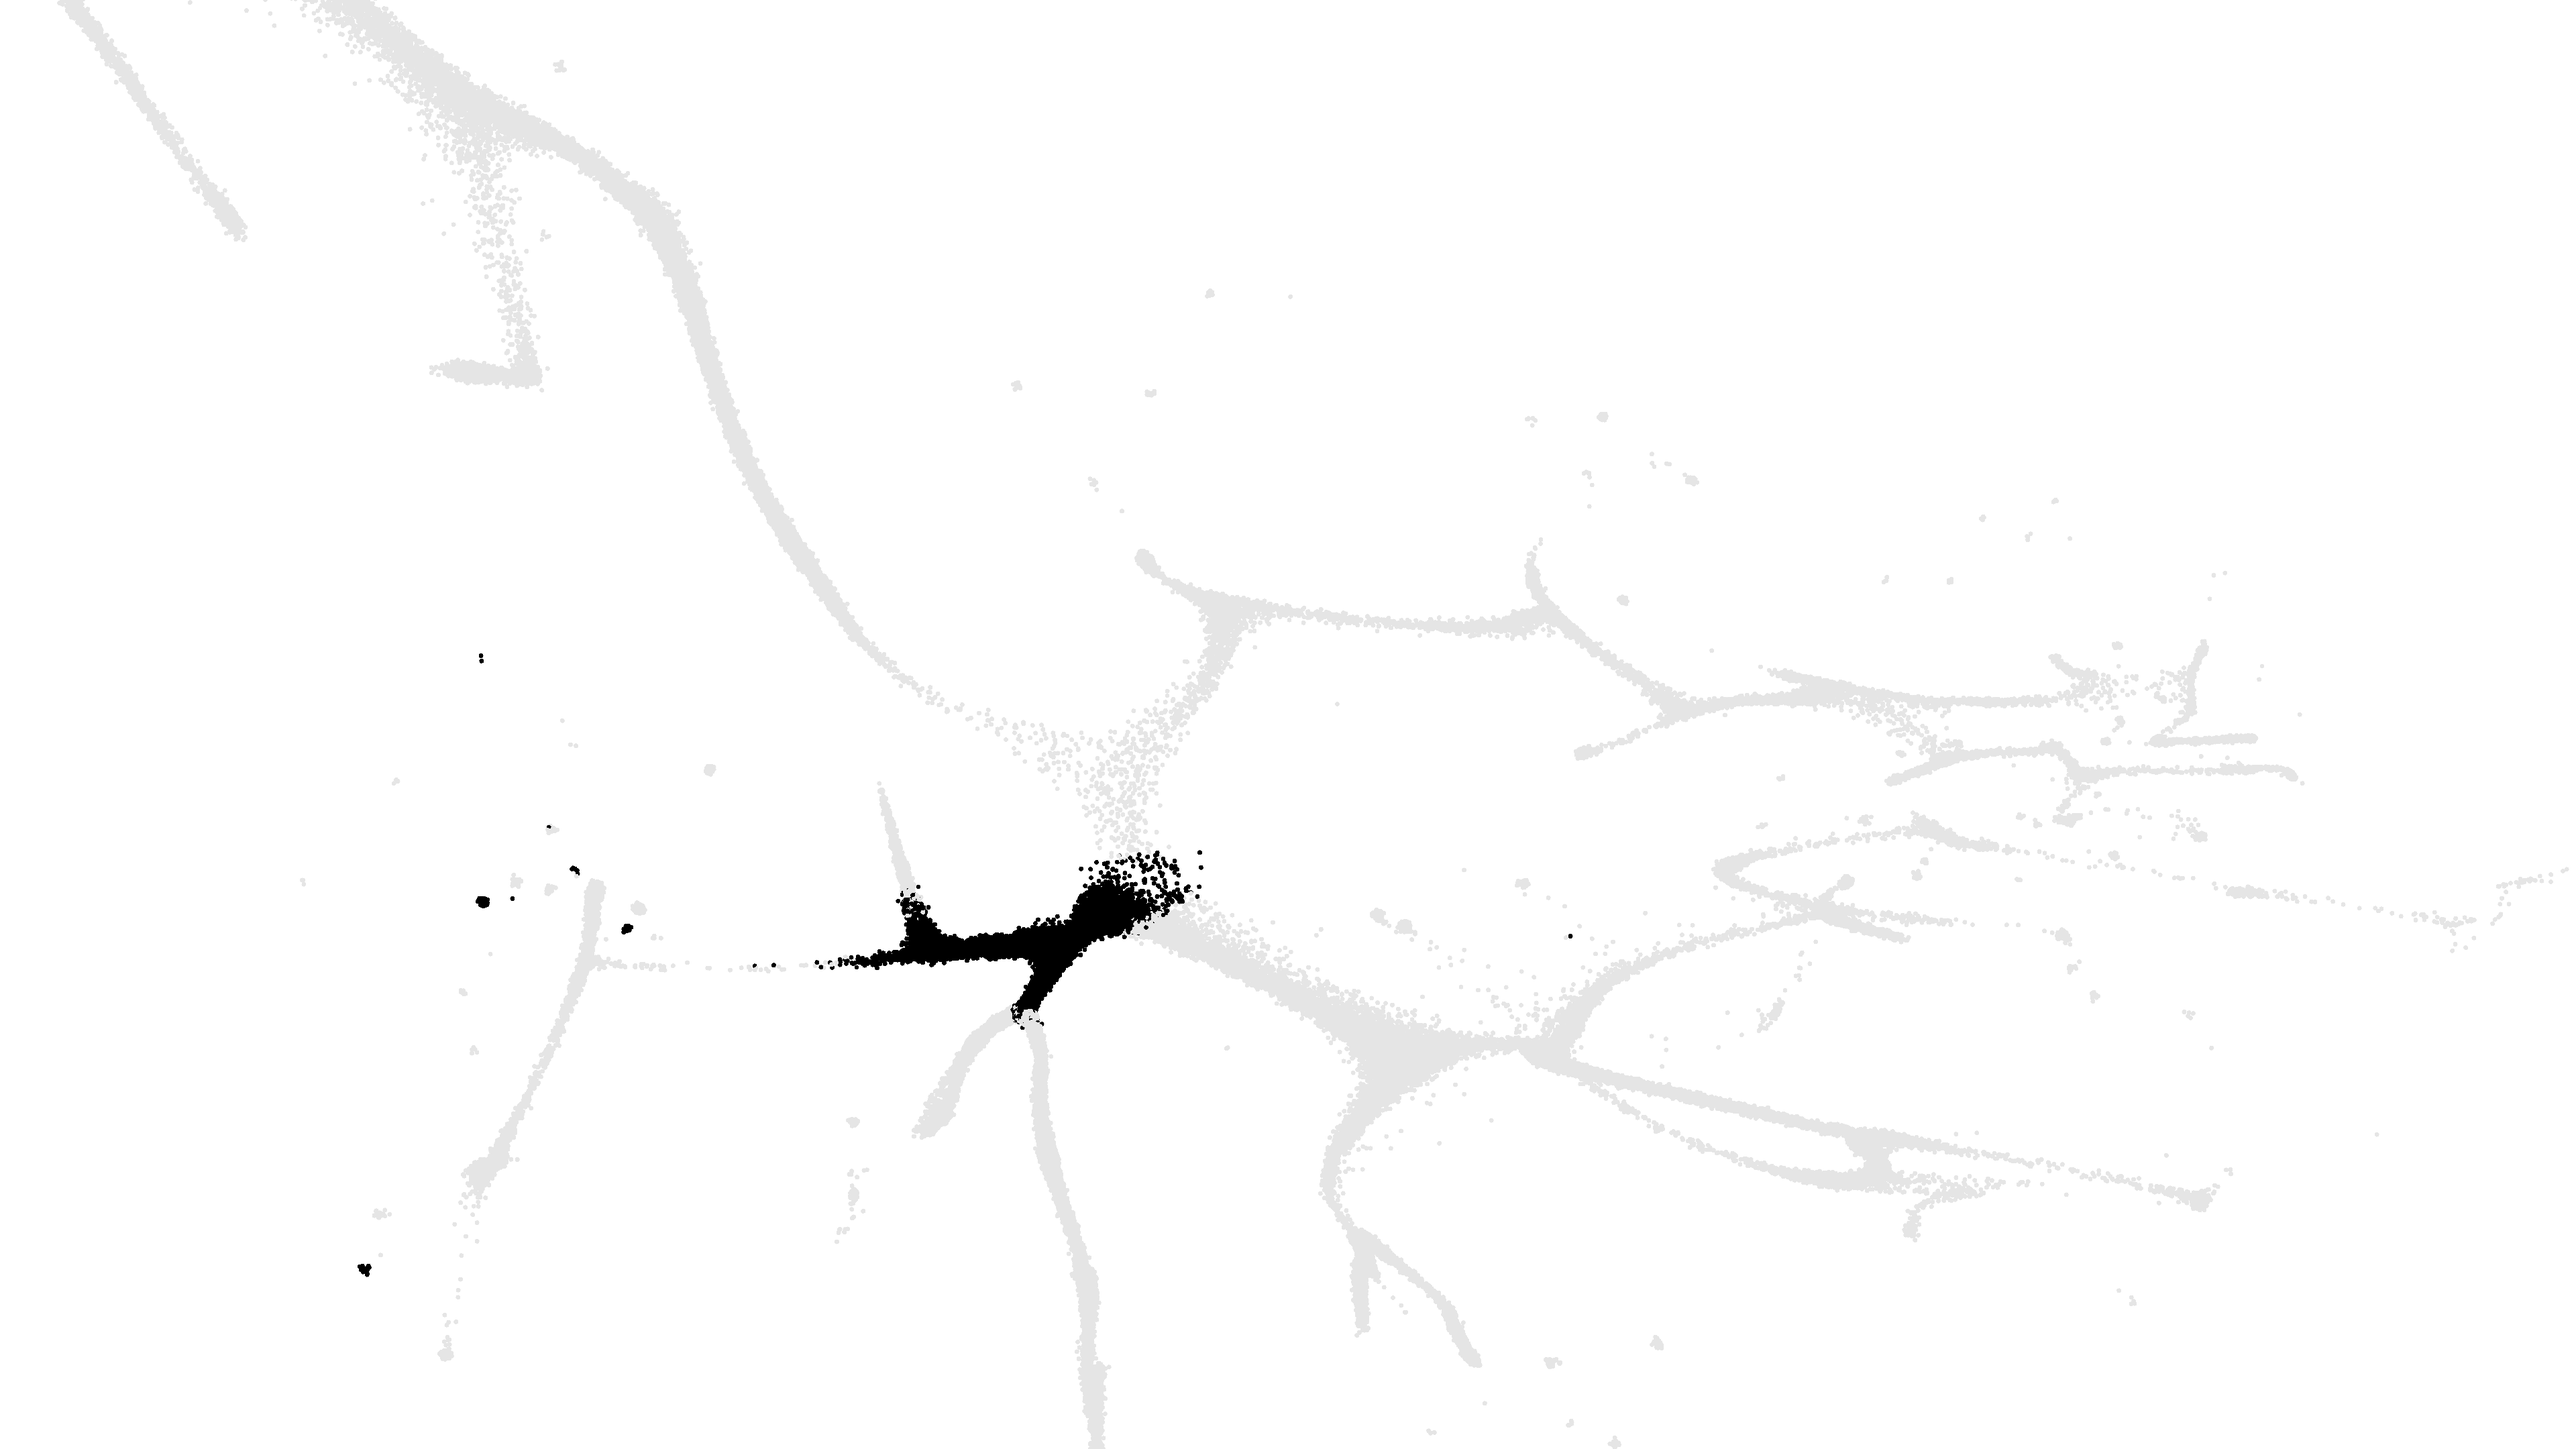
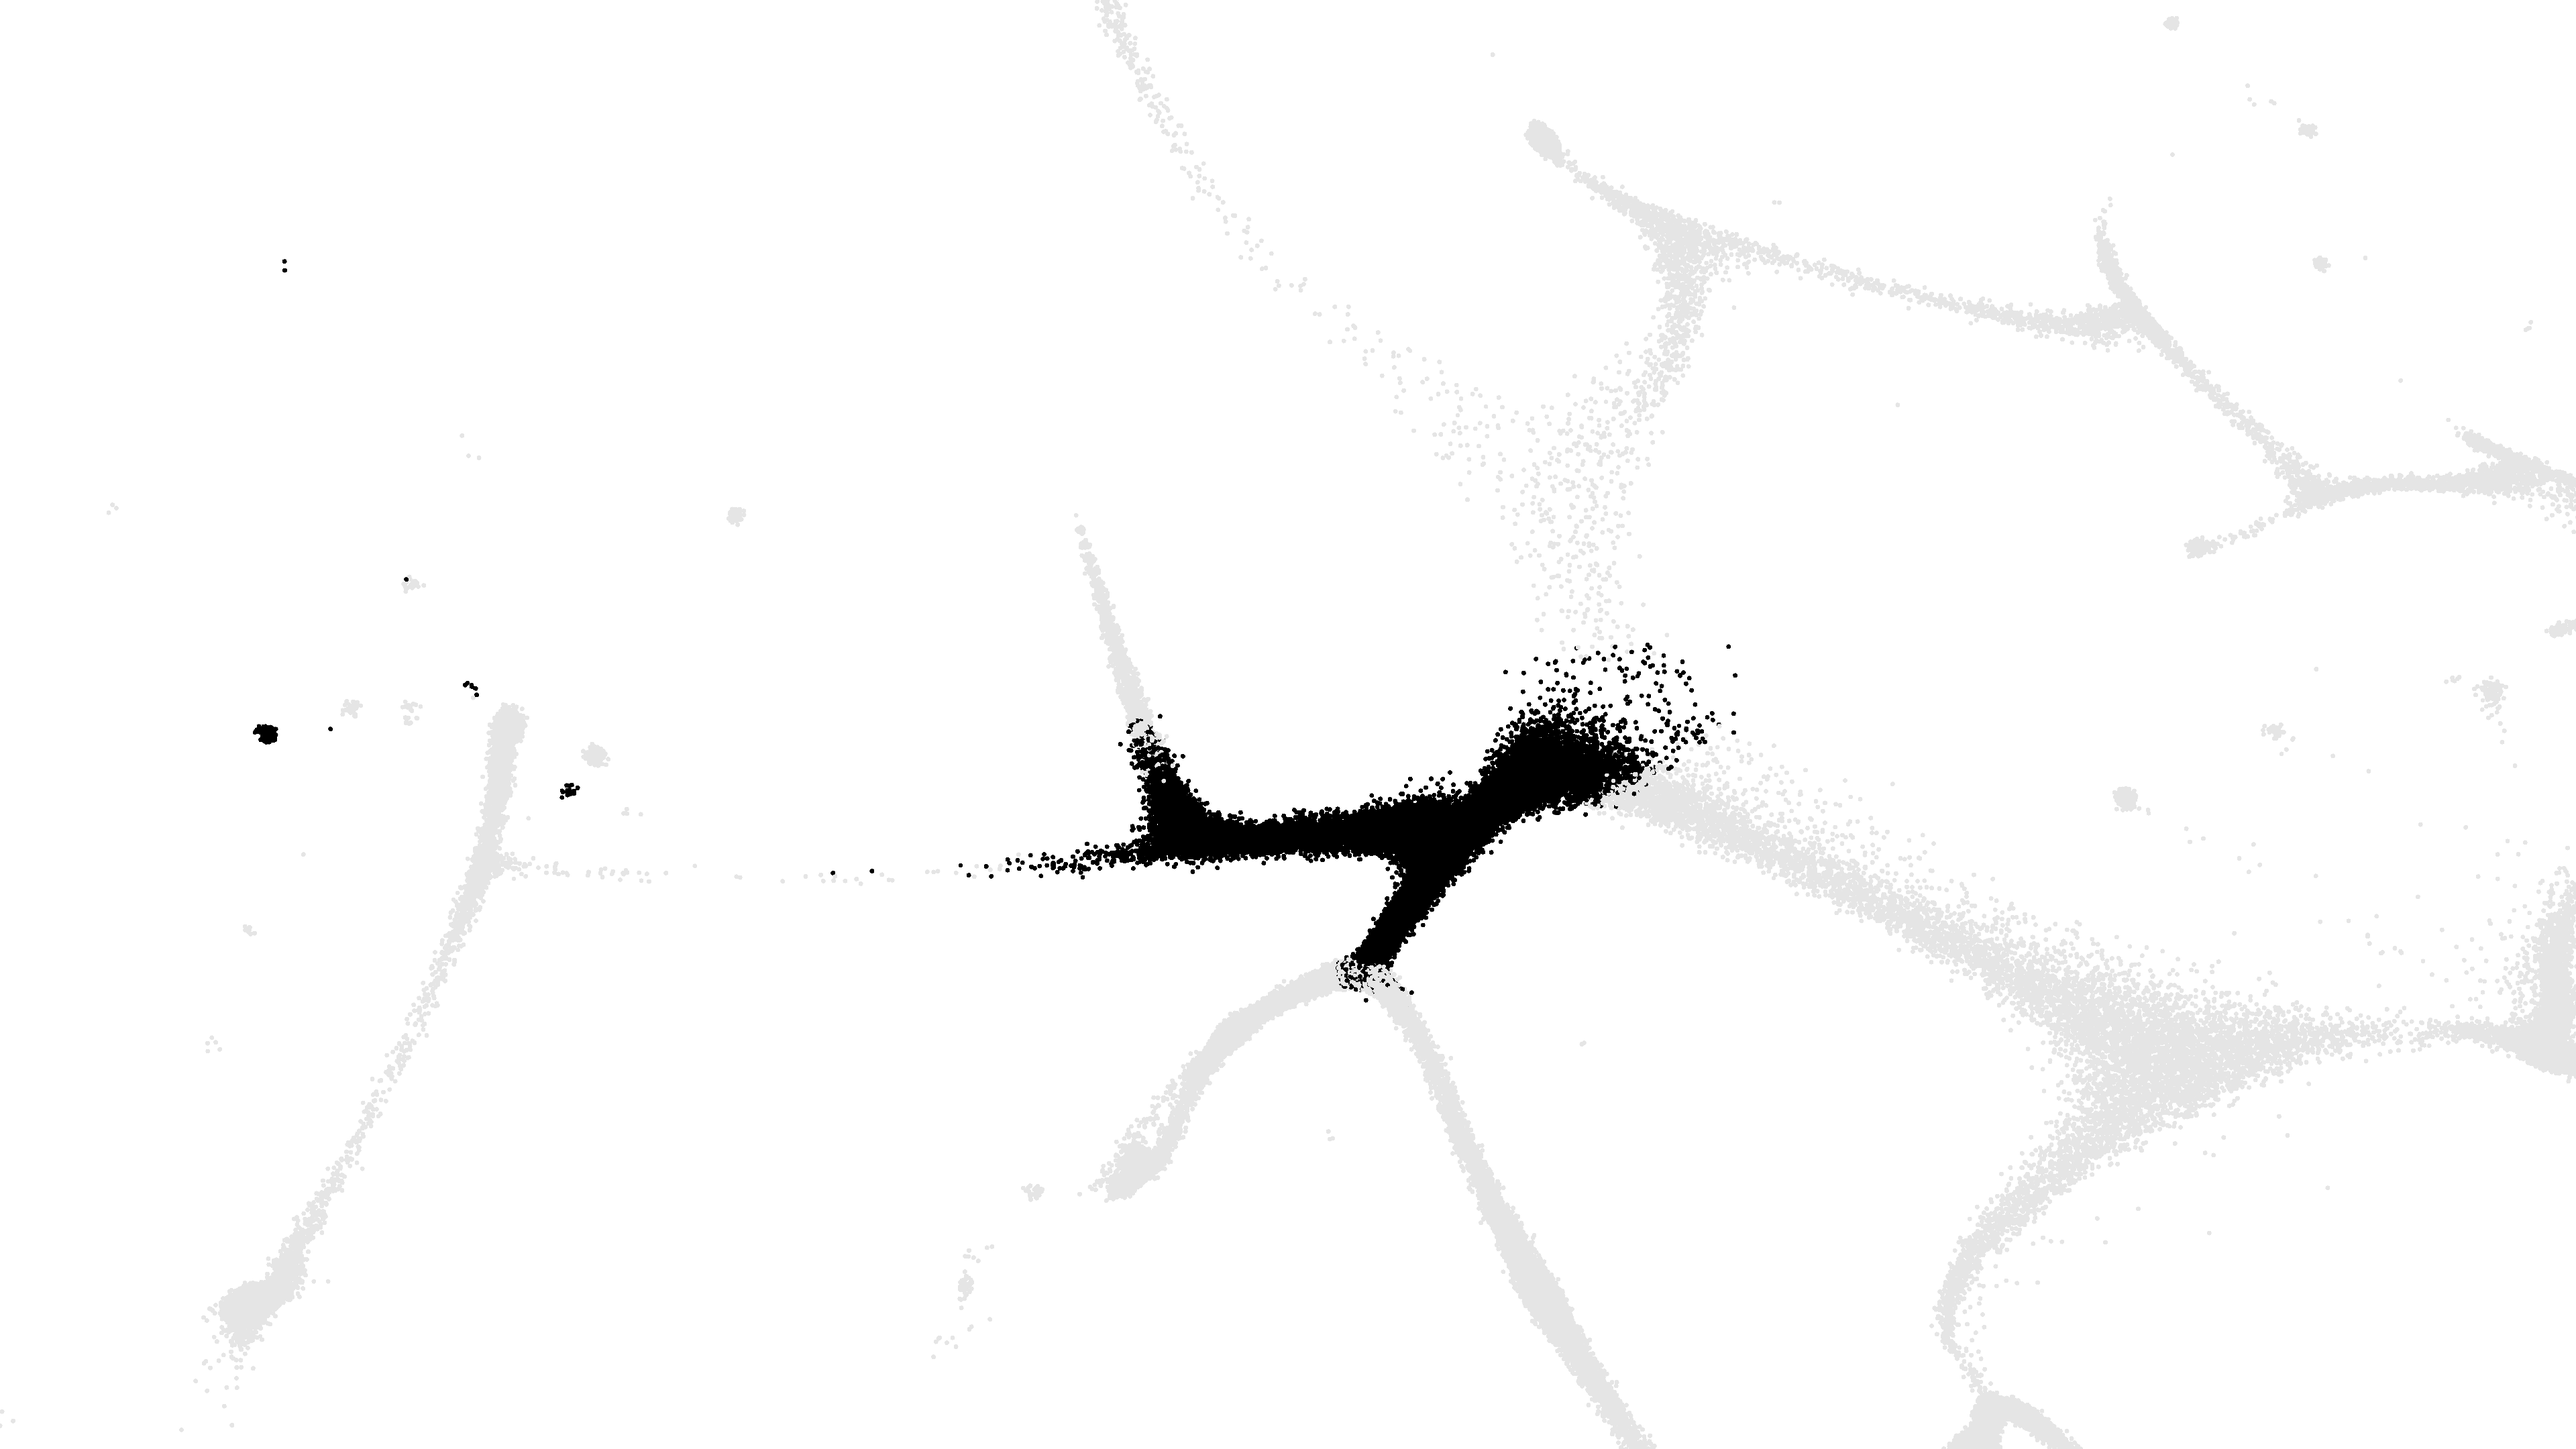
Sync

diff --git a/FigureCode/Fig5/D_E_progenitor_plots.py b/FigureCode/Fig5/D_E_progenitor_plots.py
@@ -129,6 +129,7 @@ plt.savefig("Fig/D_LIN_GATE_2.png")
 
 
 ##### FIGURE 5 E #####################
+
 fig = vedo.Plotter(axes=0,  size=(3840, 2160), interactive=False, offscreen=True)
 cells_ct = [0, 0, 0]
 cells_ct[0] = vedo.Points(Ms_saves_m1k_nca[lin_mask, :3][kit_mask], r=7, alpha=1.0, c="k")
@@ -136,12 +137,12 @@ cells_ct[1] = vedo.Points(Ms_saves_m1k_nca[lin_mask, :3][~kit_mask], r=7, alpha=
 cells_ct[2] = vedo.Points(Ms_saves_m1k_nca[~lin_mask, :3], r=7, alpha=1.0, c=[0.9, 0.9, 0.9])
 
 cam = dict(
-    pos=(89.9062, 21.2696, -50.2680),
-    focal_point=(8.34769, -3.25451, -16.7184),
-    viewup=(-0.367635, -0.0479114, -0.928735),
+    pos=(41.2577, 18.8157, -23.8188),
+    focal_point=(7.54366, 8.67814, -9.95046),
+    viewup=(-0.367635, -0.0479129, -0.928735),
     roll=92.8505,
-    distance=91.5358,
-    clipping_range=(0.304213, 304.213),
+    distance=37.8383,
+    clipping_range=(0.228260, 228.260),
 )
 
 fig.show(*cells_ct, axes=0, camera=cam)

diff --git a/FigureCode/Fig5/loading_utils.py b/FigureCode/Fig5/loading_utils.py
@@ -21,9 +21,10 @@ def load_analysis_data(datafile="../../datasets/weinreb/data_preprocessed_all_t_
     Ms_saves_m1k = Ms_saves_cpu_detail[-5][50*2000:-1]
     Ms_saves_m1k_nca = Ms_saves_m1k @ NCA_mtx
 
-    if use_full_nca:
-        Ms_saves_cpu_nca = np.load(runname_nca)['Ms_saves_cpu_nca']
 
+    Ms_saves_cpu_nca = np.load(runname_nca)['Ms_saves_cpu_nca']
+    
+    
 
     # Restructure markers
     gene_markers = [

diff --git a/FigureCode/Fig5/F_progenitor_clusters_plots.py b/FigureCode/Fig5/F_progenitor_clusters_plots.py
@@ -48,7 +48,7 @@ cam = dict(
 )
 
 fig.show(*cells_ct, cells_unassigned, *gated_population_points, axes=0, camera=cam)
-#fig.screenshot("Fig/F_LIN_KIT_CLUSTERS.png")
+fig.screenshot("Fig/F_LIN_KIT_CLUSTERS.png")
 fig.close()
 
 
